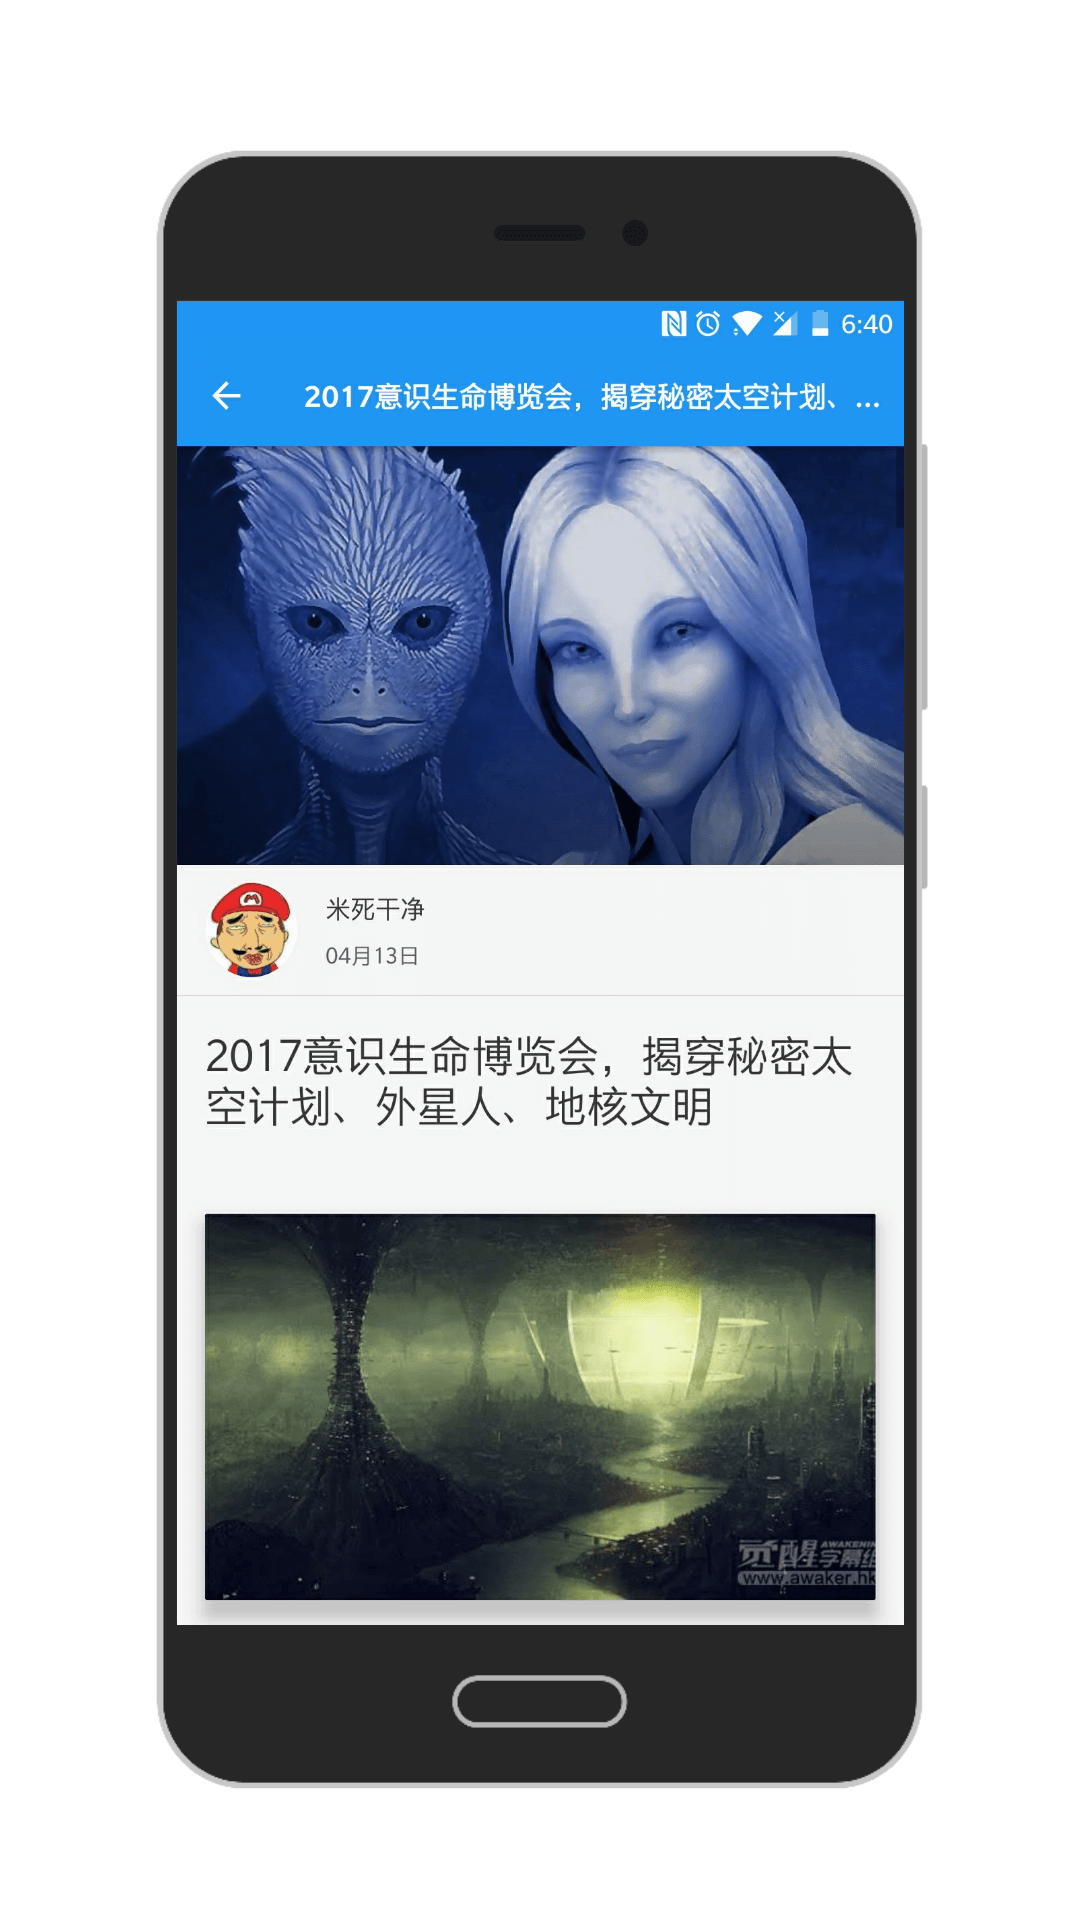
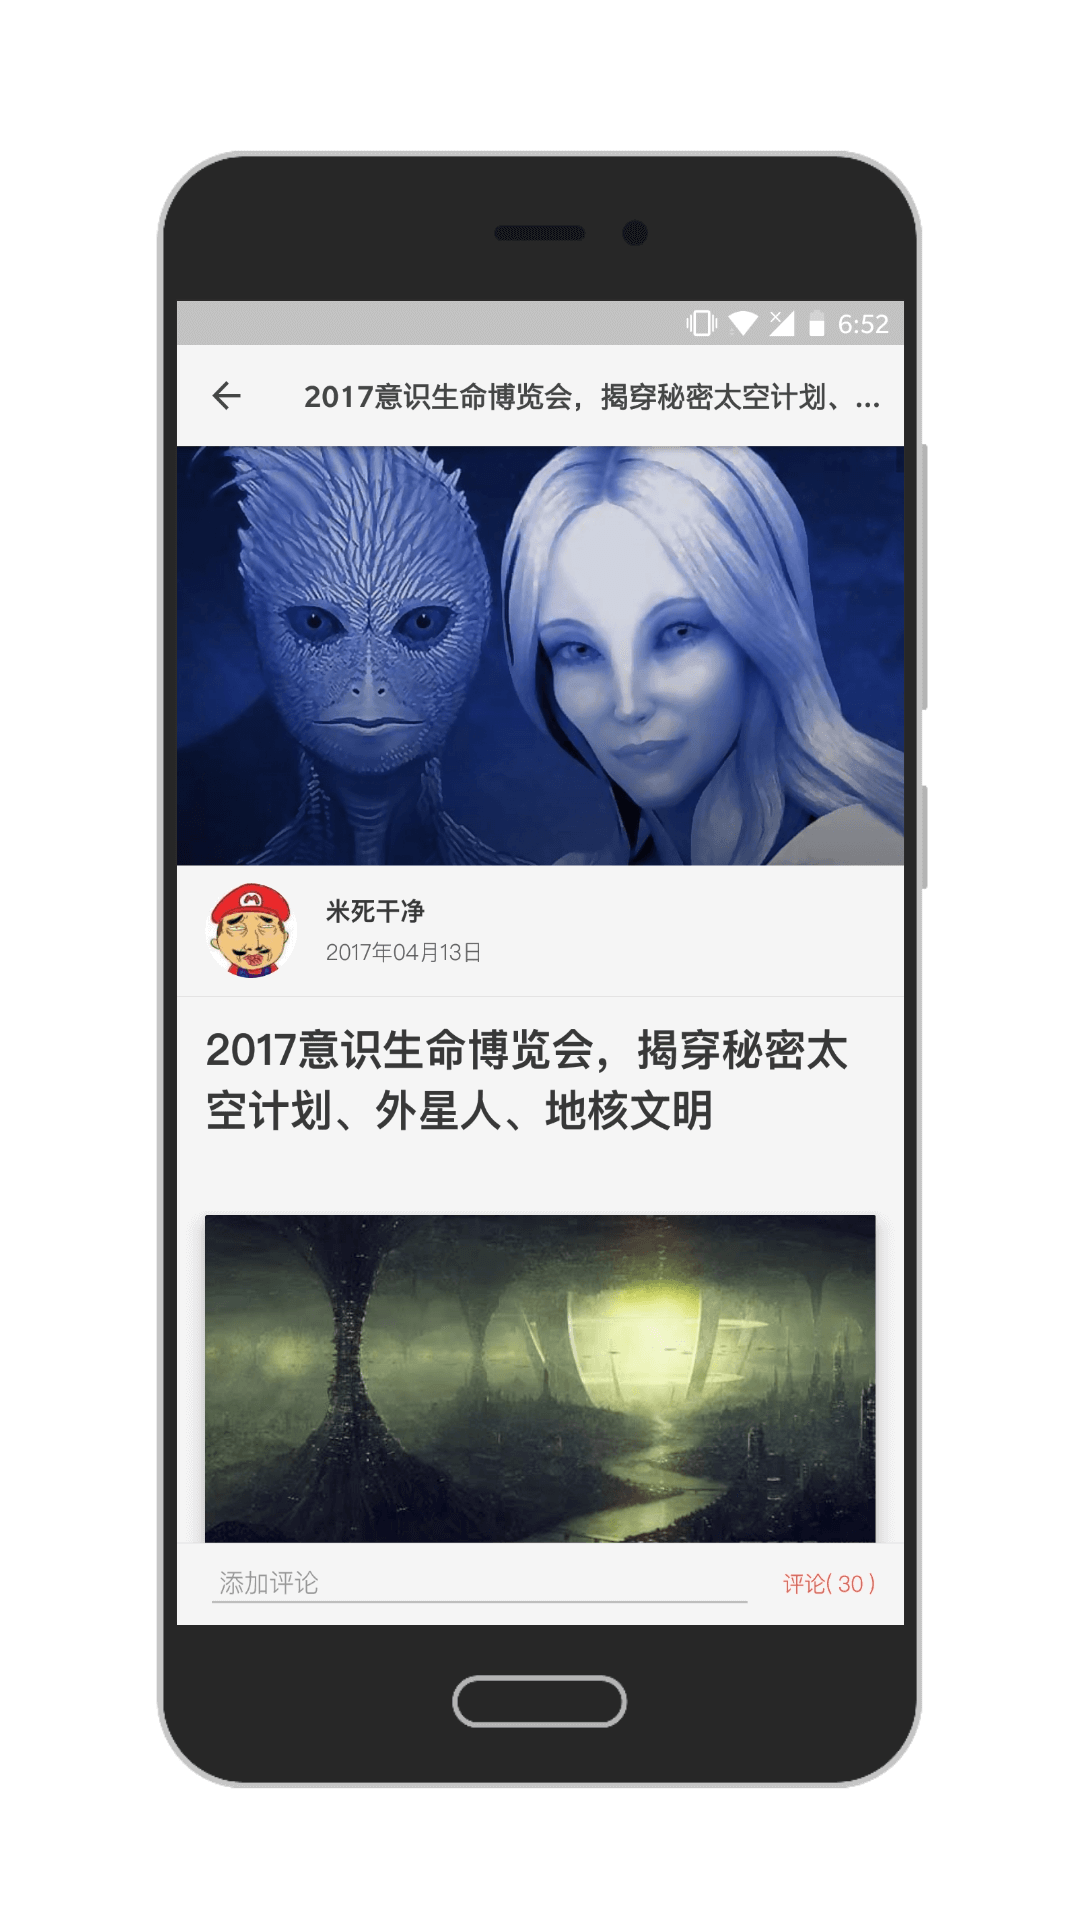
update version 0.9.5 readme

diff --git a/README.md b/README.md
@@ -17,10 +17,6 @@ Screenshots
 <a href="gif/awaker05.png"><img src="gif/awaker05.png" width="30%"/></a>
 <a href="gif/awaker06.png"><img src="gif/awaker06.png" width="30%"/></a>
 
-<a href="gif/awaker07.png"><img src="gif/awaker07.png" width="30%"/></a> 
-<a href="gif/awaker08.png"><img src="gif/awaker08.png" width="30%"/></a> 
-<a href="gif/awaker09.png"><img src="gif/awaker09.png" width="30%"/></a>
-
 
 
 
@@ -50,6 +46,8 @@ Open Source :zap:
 
 Version :zap:
 ------
+#### 2018-8-30    v0.9.5
+*  add awaker article module kotlin code, change golbal ui
 #### 2018-8-6    v0.9.2
 *  update awaker text font and load more ui style
 #### 2018-7-28    v0.9
